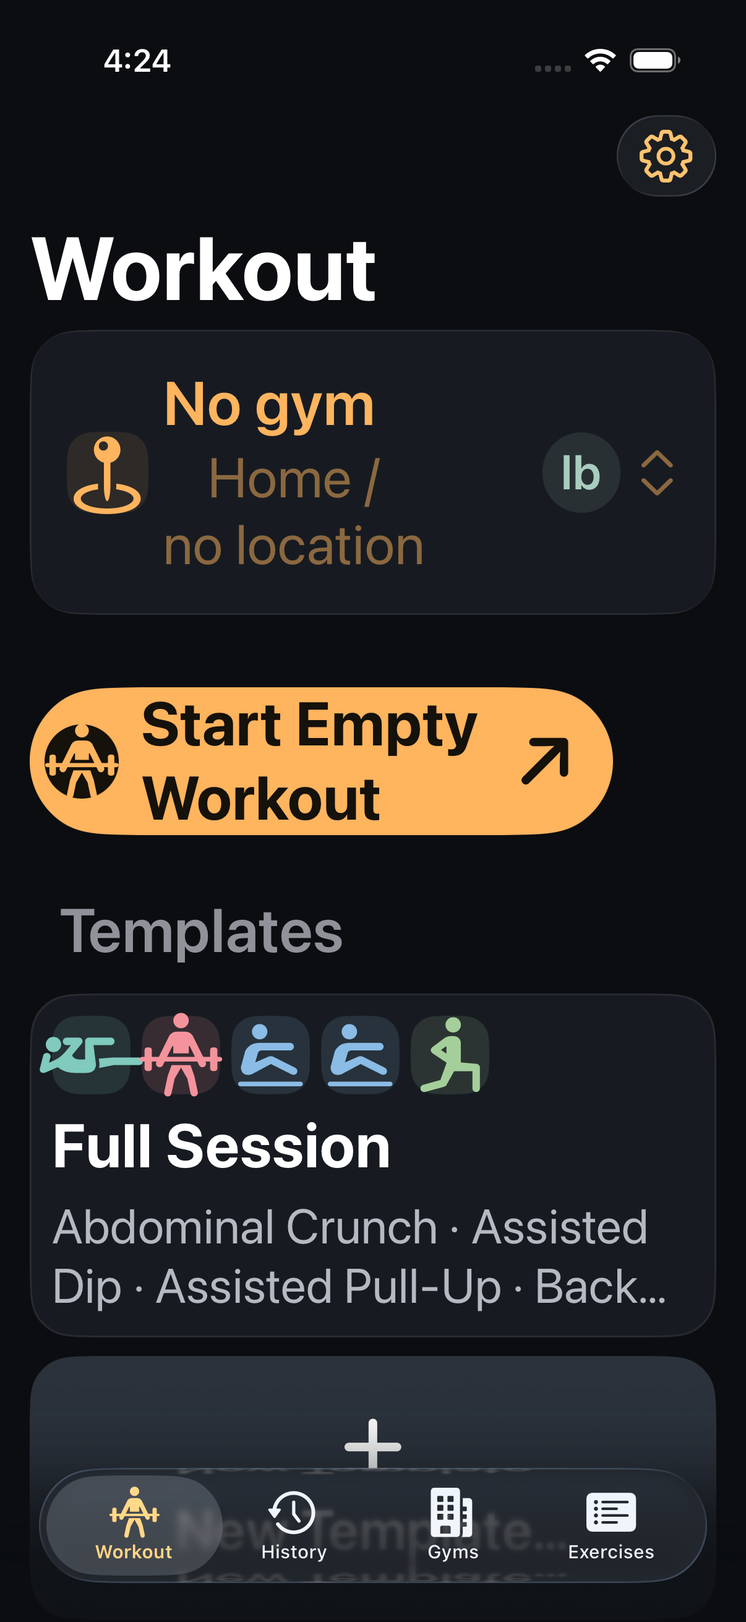
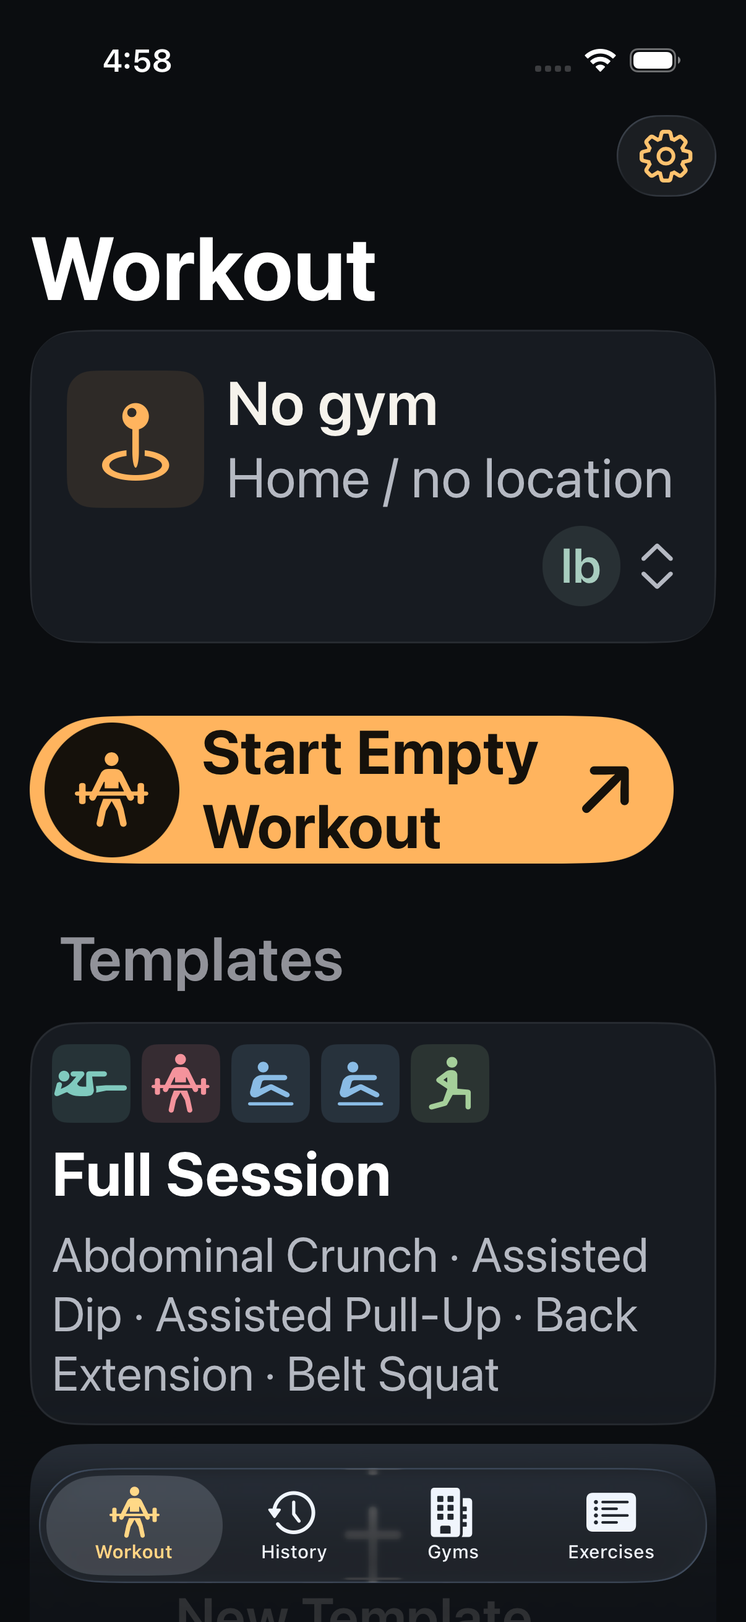
UI redesign 10: codex-review-10 — gym picker in neutral text with a scaled pin tile and stacked accessories at accessibility sizes; template summaries whole; MuscleIcon's glyph style from the base size; the capsule's disc and dot scale; same-state captures at both sizes, scrolled AXL, live AXL
Claude-Session: https://claude.ai/code/session_017NcHt6gES8nUD5LYcK9j4B

diff --git a/WorkoutTracker/Features/Start/StartWorkoutView.swift b/WorkoutTracker/Features/Start/StartWorkoutView.swift
@@ -20,6 +20,8 @@ struct StartWorkoutView: View {
     /// One template column at accessibility sizes: two tiles of five icons,
     /// a name and two lines do not share 390 pt at AccessibilityL.
     @Environment(\.dynamicTypeSize) private var dynamicTypeSize
+    /// The pin tile grows with its glyph (`.title2`).
+    @ScaledMetric(relativeTo: .title2) private var pinTile: CGFloat = 44
     @State private var selectedGym: Gym?
     /// D1: the stored pick is read once per screen lifetime — re-reading it
     /// would fight the user's in-session choice.
@@ -323,25 +325,37 @@ struct StartWorkoutView: View {
                 }
             }
         } label: {
-            HStack {
-                Image(systemName: "mappin.and.ellipse")
-                    .font(.title2)
-                    .foregroundStyle(Theme.accent)
-                    .frame(width: 44, height: 44)
-                    .background(Theme.accent.opacity(0.10), in: RoundedRectangle(cornerRadius: 14))
-                VStack(alignment: .leading, spacing: 2) {
-                    Text(selectedGym?.name ?? "No gym")
-                        .font(.headline)
-                        .foregroundStyle(.primary)
-                    Text(selectedGym.map { $0.city ?? "" } ?? "Home / no location")
-                        .font(.subheadline)
-                        .foregroundStyle(.secondary)
+            // Neutral text — a Menu tints its label with the accent, and the
+            // gym is a VALUE, not a command (codex-review-10). Accessories
+            // stack under the text at accessibility sizes.
+            let stacked = dynamicTypeSize.isAccessibilitySize
+            let layout = stacked
+                ? AnyLayout(VStackLayout(alignment: .leading, spacing: Theme.Space.small))
+                : AnyLayout(HStackLayout(spacing: Theme.Space.medium))
+            layout {
+                HStack(spacing: Theme.Space.medium) {
+                    Image(systemName: "mappin.and.ellipse")
+                        .font(.title2)
+                        .foregroundStyle(Theme.accent)
+                        .frame(width: pinTile, height: pinTile)
+                        .background(Theme.accent.opacity(0.10), in: RoundedRectangle(cornerRadius: 14))
+                    VStack(alignment: .leading, spacing: 2) {
+                        Text(selectedGym?.name ?? "No gym")
+                            .font(.headline)
+                            .foregroundStyle(Theme.text)
+                        Text(selectedGym.map { $0.city ?? "" } ?? "Home / no location")
+                            .font(.subheadline)
+                            .foregroundStyle(Theme.secondary)
+                    }
+                    if !stacked { Spacer(minLength: 0) }
                 }
-                Spacer()
-                UnitBadge(unit: currentUnit)
-                Image(systemName: "chevron.up.chevron.down")
-                    .font(.caption)
-                    .foregroundStyle(.secondary)
+                HStack(spacing: Theme.Space.small) {
+                    if stacked { Spacer(minLength: 0) }
+                    UnitBadge(unit: currentUnit)
+                    Image(systemName: "chevron.up.chevron.down")
+                        .font(.caption)
+                        .foregroundStyle(Theme.secondary)
+                }
             }
         }
         .accessibilityIdentifier("gymPicker")
@@ -358,6 +372,11 @@ private struct HeroCapsuleLabel: View {
     var trailing: String
     var live: Bool
     @Environment(\.accessibilityReduceMotion) private var reduceMotion
+    /// The ink disc grows with its glyph (`.body`) — codex-review-10 saw the
+    /// figure flush with a fixed 40 pt disc at AXL.
+    @ScaledMetric(relativeTo: .body) private var disc: CGFloat = 40
+    @ScaledMetric(relativeTo: .body) private var dot: CGFloat = 9
+    @State private var breathing = false
 
     var body: some View {
         HStack(spacing: Theme.Space.medium) {
@@ -365,16 +384,19 @@ private struct HeroCapsuleLabel: View {
                 Image(systemName: symbol)
                     .font(.body.weight(.semibold))
                     .foregroundStyle(Theme.accent)
-                    .frame(width: 40, height: 40)
+                    .frame(width: disc, height: disc)
                     .background(Theme.onAccent, in: Circle())
                 if live {
                     // Inside the ink disc — amber on ink; at its edge the dot
-                    // sat amber on the amber capsule and vanished.
-                    Image(systemName: "circle.fill")
-                        .font(.system(size: 9))
-                        .foregroundStyle(Theme.accent)
-                        .symbolEffect(.pulse, options: .repeating, isActive: !reduceMotion)
-                        .offset(x: -5, y: 5)
+                    // sat amber on the amber capsule and vanished. Geometry,
+                    // scaled with the disc; it breathes unless Reduce Motion.
+                    Circle()
+                        .fill(Theme.accent)
+                        .frame(width: dot, height: dot)
+                        .opacity(breathing || reduceMotion ? 1 : 0.35)
+                        .animation(reduceMotion ? nil : .easeInOut(duration: 1).repeatForever(autoreverses: true), value: breathing)
+                        .onAppear { breathing = true }
+                        .offset(x: -dot * 0.55, y: dot * 0.55)
                         .accessibilityHidden(true)
                 }
             }
@@ -411,10 +433,11 @@ private struct TemplateTile: View {
             }
             Text(template.name)
                 .font(Theme.cardTitle)
+            // Whole, never truncated: the tile grows with its exercises
+            // (codex-review-10); the grid row takes the tallest tile.
             Text(items.compactMap { $0.exercise?.name }.joined(separator: " · "))
                 .font(.caption)
                 .foregroundStyle(Theme.secondary)
-                .lineLimit(2)
         }
         .frame(maxWidth: .infinity, minHeight: 118, alignment: .topLeading)
         .padding(Theme.Space.medium)

diff --git a/WorkoutTrackerUITests/RedesignScreenshotUITests.swift b/WorkoutTrackerUITests/RedesignScreenshotUITests.swift
@@ -95,11 +95,11 @@ final class RedesignScreenshotUITests: XCTestCase {
         shoot("redesign-04-start")
     }
 
-    /// The Start tab at the default size with a five-exercise template and a
-    /// gym chosen (ticket 10): the capsule, the gym card, the template grid.
+    /// The Start tab at the default size with a five-exercise template, no
+    /// gym (ticket 10): the capsule, the gym card, the template grid — the
+    /// same state `test04_startLargeText` captures at AccessibilityL.
     func test04_startTemplates() {
         launch()
-        createGym()
         app.tabBars.buttons["Workout"].tap()
         let newTemplate = app.buttons["New Template…"]
         XCTAssertTrue(newTemplate.waitForExistence(timeout: 10))
@@ -141,6 +141,29 @@ final class RedesignScreenshotUITests: XCTestCase {
         app.buttons["Save"].tap()
         XCTAssertTrue(anyElement("templateTile.Full Session").waitForExistence(timeout: 5))
         shoot("redesign-04-start-axl")
+        // The blocks under the fold — New Template and the machines line —
+        // on record too (ios-design step 6).
+        // A tile half under the tab bar still counts as hittable, so scroll
+        // unconditionally, then make sure the machines line is on screen.
+        app.swipeUp()
+        let line = app.staticTexts.matching(NSPredicate(format: "label BEGINSWITH 'Machines resolve'")).firstMatch
+        for _ in 0..<4 where !(line.exists && line.isHittable) { app.swipeUp() }
+        XCTAssertTrue(line.exists, "the machines line reachable at AccessibilityL")
+        shoot("redesign-04-start-axl-2")
+    }
+
+    /// The live state at AccessibilityL — the same fixture as `test04_start`:
+    /// the two-line Resume capsule must hold.
+    func test04_startLiveLargeText() {
+        app.launchArguments = ["-uiTestReset",
+                               "-UIPreferredContentSizeCategoryName", "UICTContentSizeCategoryAccessibilityL"]
+        app.launch()
+        createGym()
+        startEmptyWorkout()
+        XCTAssertTrue(app.buttons["minimizeWorkout"].waitForExistence(timeout: 10))
+        app.buttons["minimizeWorkout"].tap()
+        XCTAssertTrue(anyElement("resumeWorkout").waitForExistence(timeout: 5))
+        shoot("redesign-04-start-live-axl")
     }
 
     /// Settings behind the gear on the Workout tab (ticket 05).

diff --git a/WorkoutTracker/Features/Design/MuscleGroupStyle.swift b/WorkoutTracker/Features/Design/MuscleGroupStyle.swift
@@ -34,20 +34,25 @@ struct MuscleIcon: View {
     /// (UI redesign ticket 08). `size` picks the base: 40 for a row, 24 for
     /// a strip inside a tile (ticket 10).
     @ScaledMetric(relativeTo: .title3) private var side: CGFloat = 40
+    /// The base picks the glyph's text style; the scaled side never does
+    /// (codex-review-10: a 24 pt tile crossed a threshold at AXL and its
+    /// glyph jumped to Title 3, out of its background).
+    private let small: Bool
 
     init(group: String?, size: CGFloat = 40) {
         self.group = group
+        self.small = size < 32
         _side = ScaledMetric(wrappedValue: size, relativeTo: .title3)
     }
 
     var body: some View {
         let style = MuscleGroupStyle.resolve(group)
         Image(systemName: style.symbol)
-            .font(side < 32 ? .caption.weight(.semibold) : .title3.weight(.semibold))
+            .font(small ? .caption.weight(.semibold) : .title3.weight(.semibold))
             .foregroundStyle(style.color)
             .frame(width: side, height: side)
             .background(style.color.opacity(0.14),
-                        in: RoundedRectangle(cornerRadius: side < 32 ? 8 : 14))
+                        in: RoundedRectangle(cornerRadius: small ? 8 : 14))
             .accessibilityHidden(true)
     }
 }

diff --git a/.scratch/ui-redesign/codex-review-10.md b/.scratch/ui-redesign/codex-review-10.md
@@ -1,0 +1,47 @@
+# Ticket 10 — T6 round 1
+
+**Not clear: four medium findings and one low finding.** Reviewed `main...HEAD` on `ui-redesign-10-start`: `d4923746354d1e7d5af29ce243039d42f311fe1a` → `e608fa6df7e1bba96feea4afca576e11239f7848`. Read SKILL.md, REVIEW.md, REFERENCE.md, the ticket, and Main/MainLive canvas sources; visually inspected all three supplied PNGs. No source files changed; no xcodebuild or simctl commands run. Reported test results are not independently rerun. REVIEW.md contains 12 numbered checks; item 13 below is its advisory paragraph.
+
+**Medium / P2 — The gym picker was not visually demoted; its supporting text also fails contrast.** `WorkoutTracker/Features/Start/StartWorkoutView.swift:333` and `:338`. All three captures show an amber gym title (`Iron Temple` or `No gym`), contrary to the final composition's explicit “no accent title” (ticket:87–89). The semantic `.primary`/`.secondary` styles inside this Menu inherit the amber treatment; they do not render as the intended neutral text tokens. In `04-start-templates.png`, solid subtitle pixels are `#8B6840` on `#171B21`: **3.42:1**, below 4.5:1. Use explicit neutral text tokens for the value/support/disclosure and recapture. This picker code predates the diff, but the requested second-pass demotion and whole-screen design gate leave it unresolved; this is not attributed as a newly introduced regression. The small pin tile is a separate question, answered under item 1.
+
+**Medium / P2 — The five-exercise summary is visibly truncated at both gated sizes.** `WorkoutTracker/Features/Start/StartWorkoutView.swift:417`. The default tile ends `Assisted P…`; AXL ends `Back…`, omitting Belt Squat. The name is whole, but the exercise string is not. Retaining the former two-line cap in the narrower grid does not satisfy SKILL step 6 / REVIEW item 9 or the ticket's “every string whole” claim. Let the required summary expand, or explicitly obtain and record an exception for an abbreviated preview; the accepted grid composition alone does not resolve the contradictory claim. Verify the complete five-exercise string in replacement captures.
+
+**Medium / P2 — Scaling the small muscle tile changes its font category and makes symbols outgrow their backgrounds.** `WorkoutTracker/Features/Design/MuscleGroupStyle.swift:46`; also `WorkoutTracker/Features/Start/StartWorkoutView.swift:368`. `side` is already dynamically scaled, so the 24-point variant crosses the 32-point threshold and switches from scaled Caption to scaled Title 3. In `04-start-axl.png`, the Core symbol extends outside its small rounded background toward the adjacent Chest symbol; the Chest figure also exceeds its background. Choose the semantic font from the base variant, then scale its container consistently. The hero has the related visible problem: its Body symbol grows while its ink disc stays 40 points, leaving the figure flush with/over the disc boundary at AXL. Scale that disc with the glyph too. This is visible evidence, not an inference that `@ScaledMetric` is absent.
+
+**Medium / P2 — The capture record does not cover the whole AXL layout or the changed live composition.** `WorkoutTrackerUITests/RedesignScreenshotUITests.swift:143` and `:95`. The AXL test takes only its initial viewport: New Template is obscured by the tab bar and the machine-resolution sentence is below the capture. SKILL step 6 explicitly requires scrolling until every named block is on record. There is also no AXL live capture for the new two-line Resume capsule. Add a scrolled idle capture and a same-fixture live default/AXL pair. The idle captures do show the same visible No gym / Full Session state, but their setup is not identical: the default test creates Iron Temple at `:102` without selecting it, while AXL creates no gym. Align the setup or correct the default test's “gym chosen” claim and assert the intended value.
+
+**Low / P3 — The gate counts cannot be reconciled.** `.scratch/ui-redesign/issues/10-start-second-pass.md:115`. The written counts total 25 including the three Start captures, not the claimed 23. `ExercisePresetUITests.swift:25` and `:71` contain two test methods, not three; the currently named groups plus captures total 24 distinct tests. Reconcile the ticket against saved results, distinguishing the successful test set from retries. No claim here that tests failed.
+
+**Checklist — checkable answers to items 1–13**
+
+1. **Bold element — fails the recorded demotion.** The capsule is the only accent-filled command and sits above neutral template tiles. I accept the **pin tile as the subdued picker-context/state treatment**, not a competing command: its 10% fill is confined to the 44-point leading icon inside a neutral value-and-disclosure control (`StartWorkoutView.swift:327–344`); it does not fill the picker or use the largest content type. Its tint is unconditional, including No gym, so it marks current location context rather than a selected/unselected color transition. That acceptance does **not** excuse the amber content title: the final record explicitly demotes that title, and SKILL's dominance rule prohibits a competing accent content title. The selected Workout tab is exempt state; the gear is unchanged native navigation chrome.
+
+2. **Placement — passes at default size; AXL coverage incomplete.** The captures follow title → gym → capsule → Templates/grid → helper sentence, as the user's final Main structure specifies. The capsule is top-leading beneath the gym, not pinned at the thumb. Default captures contain the named blocks. MainLive still shows the older above-gym Resume plus secondary Start; ticket:77–89 supersedes that older canvas state. AXL's lower blocks require the missing scroll capture.
+
+3. **Grouping — accepted composition exception.** The gym groups location/value/unit/disclosure; template cards group icons/name/exercises. The capsule is the command itself, not a card around another button. Small icon backgrounds are markers, not nested content cards. New Template as a filled tile and the two-column collection are explicitly selected in ticket:68–72 and Main.dc.html. I accept those exceptions to the generic “more than three like items are lists” rule, including when more templates are added; reverting to rows would undo the user's choice. Peer template/New radii use `Theme.Radius.card` (`StartWorkoutView.swift:95`, `:421`).
+
+4. **Figures — passes / no nominated glanceable statistic.** This screen's bold element is a command. Its inline exercise count is supporting subtitle metadata, not a nominated stat/hero figure. No hero-weight content figure is duplicated; subtitle remains smaller than title (`StartWorkoutView.swift:382–384`).
+
+5. **Type — text passes; one literal exception.** New text uses Body, Caption, Headline via `Theme.cardTitle`, and Subheadline; no Light weight or alternative family. The grep is **not empty**: `StartWorkoutView.swift:374` uses `.system(size: 9)` for the hidden pulse dot. This is a decorative marker rather than text, but it does not literally meet the all-styles wording. Record that narrow exception or draw a 9-point circle as geometry. The substantive scaling defect is the separate P2 above.
+
+6. **Colour — fails on the gym support text.** Reference-table pairs used elsewhere pass: template secondary/Card 8.8:1, helper tertiary/Background 5.4:1, New Template primary/Fill 11.7:1, capsule OnAccent/accent 10.7:1. Measured sRGB alpha-composited pairs: 80%-opacity capsule subtitle/accent **6.98:1**; amber pin/10%-amber-on-Card **8.06:1**; lb/12%-lb-on-Card **7.74:1**, kg equivalent **7.51:1**. Visible muscle glyphs on their 14%-tinted Card backgrounds: Core **6.86**, Chest **6.09**, Back **6.50**, Quads **7.30:1**. Their hues retain muscle meaning. These calculations use asset/token RGB values with foreground alpha composed before luminance; the failing **3.42:1** gym pair uses solid rendered PNG pixels. No essential `Theme.tertiary` text is placed on Elevated/Fill. The rendered amber title also violates its recorded demotion.
+
+7. **Controls — structural checks pass; pressed rendering unverified.** One prominent filled command, 56-point capsule minimum, 44-point gym icon plus padding, and template/New tiles with 118-point minimum content height plus padding. Grid columns are equal-width; destructive Delete stays in the menu, never primary. The picker shows value and disclosure on a neutral card. These use native `.plain`, not a custom ButtonStyle missing a press implementation. Apple documents that [plain style can apply pressed-state effects](https://developer.apple.com/documentation/swiftui/primitivebuttonstyle/plain); a still capture cannot establish their appearance. I do not manufacture a missing-press-state finding from `.plain` alone.
+
+8. **Lists, sheets, tab bar — accepted.** Yes, I accept losing swipe-to-delete for this explicitly accepted grid. `StartWorkoutView.swift:75–83` retains Edit… and destructive Delete on each template's context menu, calling the same editor/delete service. A grid has no per-template List rows on which to retain swipe. Reduced discoverability is the accepted interaction tradeoff. The template sheet's staged Cancel/Save behavior is unchanged, as are confirmation-dialog choices. RootView's four tabs still only navigate; symbols remain untouched.
+
+9. **Dynamic Type — fails, but not because two columns remain.** `StartWorkoutView.swift:66–67` explicitly changes to **one column** for accessibility sizes, and the PNG confirms it. Five icons and the whole Full Session name fit within the large card's overall width; the two-line summary still truncates, and individual symbols exceed their backgrounds. `WrapLayout` is present and the capsule title wraps intact. The gym still uses its inherited horizontal layout with unit/disclosure trailing (`:326–344`), rather than stacking accessories as the rubric requests; its fixed icon background also fails to grow with its glyph. Hierarchy order is retained, but lower-block and live-AXL evidence are missing. See the P2 findings.
+
+10. **Motion — source check passes.** The only new repeating animation is the live dot. `HeroCapsuleLabel` reads Reduce Motion at `:360` and actually gates `.symbolEffect(.pulse, … isActive: !reduceMotion)` at `:376`; the dot stays present but still when enabled. `:378` hides it from accessibility. No other explicit screen animation was introduced. Runtime Reduce Motion behavior was not exercised in this review.
+
+11. **Copy, identifiers, and accessibility — accepted intended changes; no hidden button dependency found.** Idle `startEmptyWorkout` and live `resumeWorkout` remain on their corresponding Button branches (`:157–173`). Removing Start while live is expressly authorized by ticket:77–83. The old per-template Start caption is replaced by the selected whole-tile interaction; existing exercise/helper strings are retained, and `templateTile.<name>` is an additive identifier. No UI-test caller requires the idle button during a live workout; CoreLoop's minimize/resume case explicitly queries `resumeWorkout` (`CoreLoopUITests.swift:477–498`).
+
+   Repository-wide entry-point audit: no `onOpenURL`, custom workout URL handler, widget `Link`/`widgetURL`, or app-intent start route exists. `WorkoutTrackerWidget/WorkoutActivityView.swift:88` supplies presentation only; a Live Activity opening the app does not query a button identifier. `RootView.swift:93–95` recovers directly through `WorkoutSession.resumableWorkout()`, and an already-minimized screen exposes Resume. The finish sheet has **no “start another” action**: Done dismisses (`WorkoutFinishedSheet.swift:141`, `RootView.swift:82`), View in History navigates (`RootView.swift:76–80`), and finishing has already ended/discarded the session (`ActiveWorkoutView.swift:551–589`). Template-start-while-live still routes through `startTapped` and the existing replacement dialog (`StartWorkoutView.swift:127–144`, `:187–193`). Nothing found depends on the removed live-state idle button.
+
+   For the live capsule, the intended combined content is **“Resume workout, Iron Temple · 0 exercises”**, with the Button trait, or the unchanged “In progress · N exercises” fallback. `.combine` retains the title/subtitle properties, and the pulse is excluded. Apple's [combine documentation](https://developer.apple.com/documentation/swiftui/accessibilitychildbehavior/combine) allows transformations when merging non-hidden children: this is not proof of the exact spoken label. The figure and chevron are not explicitly hidden (`:365`, `:387`), so symbol-name inclusion remains unverified without an accessibility-tree/VoiceOver check. No claim that a PNG verifies the final spoken output.
+
+12. **Record — incomplete/inaccurate.** Job/state sentences, alternatives, user decisions, tells, named gates and three PNGs exist. The final prose supersedes older wireframes/MainLive. However, “no accent title,” “every string whole,” complete AXL coverage, “gym chosen,” and gate counts conflict with the evidence above. Update the record after fixes and retake captures for every pixel-moving fix; the supplied STATE does not independently establish this branch's full-suite result.
+
+13. **Advisory / judgement.** The smaller capsule and structured template tiles make the primary action easier to distinguish than the old full-width slab. The default empty/live state still has substantial free space, which is reasonable for a personal logger with no templates; filling that space is not itself a goal. I would keep the chosen composition and fix the specific hierarchy, legibility and scaling failures rather than reopen the user's structural choice.
+
+The parallel source reviews found no additional independently confirmed behavior defect. Their checks are incorporated above; the severity findings combine the rubric, final spec, and direct visual evidence.

diff --git a/.scratch/ui-redesign/issues/10-start-second-pass.md b/.scratch/ui-redesign/issues/10-start-second-pass.md
@@ -112,9 +112,42 @@ while one is live; a template start while live still meets the "already in progr
 ## Verification (2026-09-11)
 
 Built: `HeroCapsuleLabel` + `TemplateTile` + the grid in `StartWorkoutView.swift`; `MuscleIcon`
-gains `size:` (24 in a tile). Gates on `ui-redesign-10-start`: `CoreLoopUITests` 9/9,
-`HeartRateUITests` 5/5, `ExercisePresetUITests` 3/3, `BarbellUITests` 2/2,
-`CodexScreenshotUITests` 3/3, captures test04_start + test04_startTemplates (new) +
-test04_startLargeText — 23/23 across two runs (the first template capture failed on the
+gains `size:` (24 in a tile). Gates on `ui-redesign-10-start` (first run, before the Codex
+fixes): `CoreLoopUITests` 9/9, `HeartRateUITests` 5/5, `ExercisePresetUITests` 2/2,
+`BarbellUITests` 2/2, `CodexScreenshotUITests` 3/3, captures test04_start +
+test04_startTemplates (new) + test04_startLargeText — 24 tests, 23 passed in the first run (the first template capture failed on the
 editor's lazy list with the keyboard up; the test now presses Return and scrolls until an option
 exists). Screenshots `screenshots/10/` — sent to the user. Full suite: see STATE.
+
+## Codex review 10 — response (2026-09-11)
+
+`codex-review-10.md`: four P2s, one P3; the composition accepted ("keep the chosen composition
+and fix the specific hierarchy, legibility and scaling failures").
+
+- **P2, the gym picker's title stayed amber and its subtitle measured 3.4:1.** A `Menu` tints its
+  label with the accent; the texts now carry `Theme.text` / `Theme.secondary` explicitly. The
+  pin tile is the picker's context mark (Codex accepts it); it now scales with its glyph
+  (`@ScaledMetric` 44 relative to `.title2`). At accessibility sizes the unit badge and chevrons
+  stack under the text.
+- **P2, the tile's exercise line truncated** ("Assisted P…", "Back…"). The two-line limit is
+  gone; a tile grows with its exercises and the grid row takes the tallest tile.
+- **P2, the scaled small muscle tile switched text style at AXL and its glyph outgrew the
+  background; the capsule's ink disc was fixed at 40.** `MuscleIcon` picks the glyph's text style
+  from the BASE size (`small`), never the scaled side; the capsule's disc is a `@ScaledMetric`
+  relative to `.body`; the pulse dot is `.caption2`, not a point size (Codex item 5).
+- **P2, the capture record**: `test04_startTemplates` no longer creates a gym, so it shows the
+  same state as the AXL capture; the AXL test scrolls to New Template for a second shot
+  (`04-start-axl-2`); new `test04_startLiveLargeText` captures the live state at AXL with
+  `test04_start`'s fixture (`04-start-live-axl`).
+- **P3, the counts** — corrected above (ExercisePreset has 2 tests; 24 in the set).
+- Not changed: template Edit/Delete on the long-press menu (accepted); the grid (accepted);
+  `.plain` buttons' press state (native).
+- Also after round 1: the pulse dot is a `Circle` scaled with the disc, breathing by opacity
+  unless Reduce Motion (no symbol point size); the AXL scroll capture scrolls unconditionally
+  (a tile half under the tab bar counted as hittable).
+
+Gates after the round-1 fixes: `CoreLoopUITests` 9/9, `HeartRateUITests` 5/5,
+`ExercisePresetUITests` 2/2, `BarbellUITests` 2/2, `CodexScreenshotUITests` 3/3, the five
+captures — 25/25; then the three touched captures again after the dot/scroll fix, 3/3.
+Screenshots `screenshots/10/`: 04-start (live, default), 04-start-templates (idle, default),
+04-start-axl + 04-start-axl-2 (idle, AXL, scrolled), 04-start-live-axl.

diff --git a/.scratch/ui-redesign/codex-review-10b-prompt.md b/.scratch/ui-redesign/codex-review-10b-prompt.md
@@ -1,0 +1,22 @@
+Round 2 (T6) of UI-redesign ticket 10 (Start, second pass). Round-1 review:
+.scratch/ui-redesign/codex-review-10.md; the response is in
+.scratch/ui-redesign/issues/10-start-second-pass.md under "Codex review 10 — response".
+Boundary of the fix: e608fa6..HEAD on branch ui-redesign-10-start.
+
+Scope — are the four P2s and the P3 closed:
+(1) gym picker: `Theme.text` / `Theme.secondary` on the texts, the pin tile a `@ScaledMetric`,
+    accessories stacked at accessibility sizes (StartWorkoutView.swift `gymPicker`); measure the
+    subtitle pair on `04-start-templates.png` again;
+(2) the tile's exercise line whole (no lineLimit) — check `04-start-templates.png` and
+    `04-start-axl.png`;
+(3) `MuscleIcon`'s glyph style from the base size; the capsule's disc scaled (`disc`), the dot in
+    `.caption2` — check the glyphs sit inside their backgrounds in `04-start-axl.png` and
+    `04-start-live-axl.png`;
+(4) captures: same state at both sizes for the idle screen, `04-start-axl-2.png` (scrolled),
+    `04-start-live-axl.png` (the live fixture at AXL);
+(5) the counts in the ticket.
+Then REVIEW.md items 1, 6, 9 and 12 again on the new captures in .scratch/ui-redesign/screenshots/10/.
+Anything new introduced?
+
+Do NOT run xcodebuild or simctl. If closed, say "clear" in one paragraph; otherwise report by
+severity with file:line. Do not modify source files. Write to .scratch/ui-redesign/codex-review-10b.md
